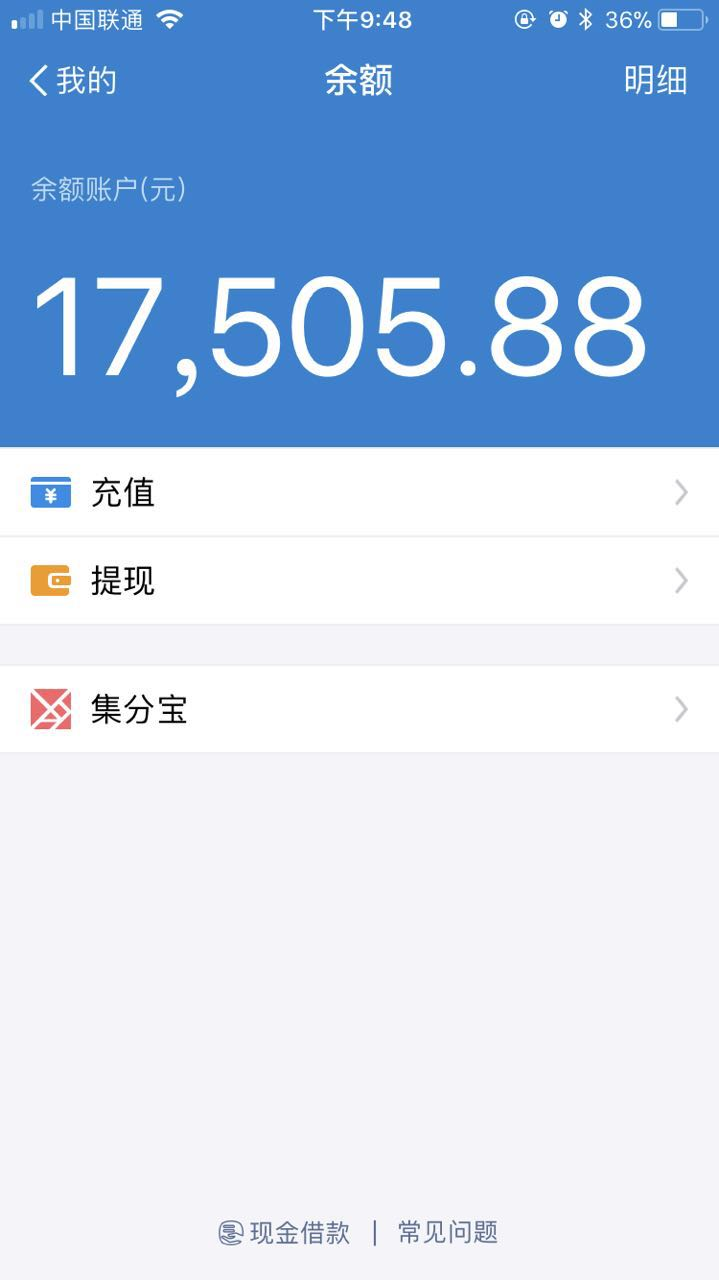
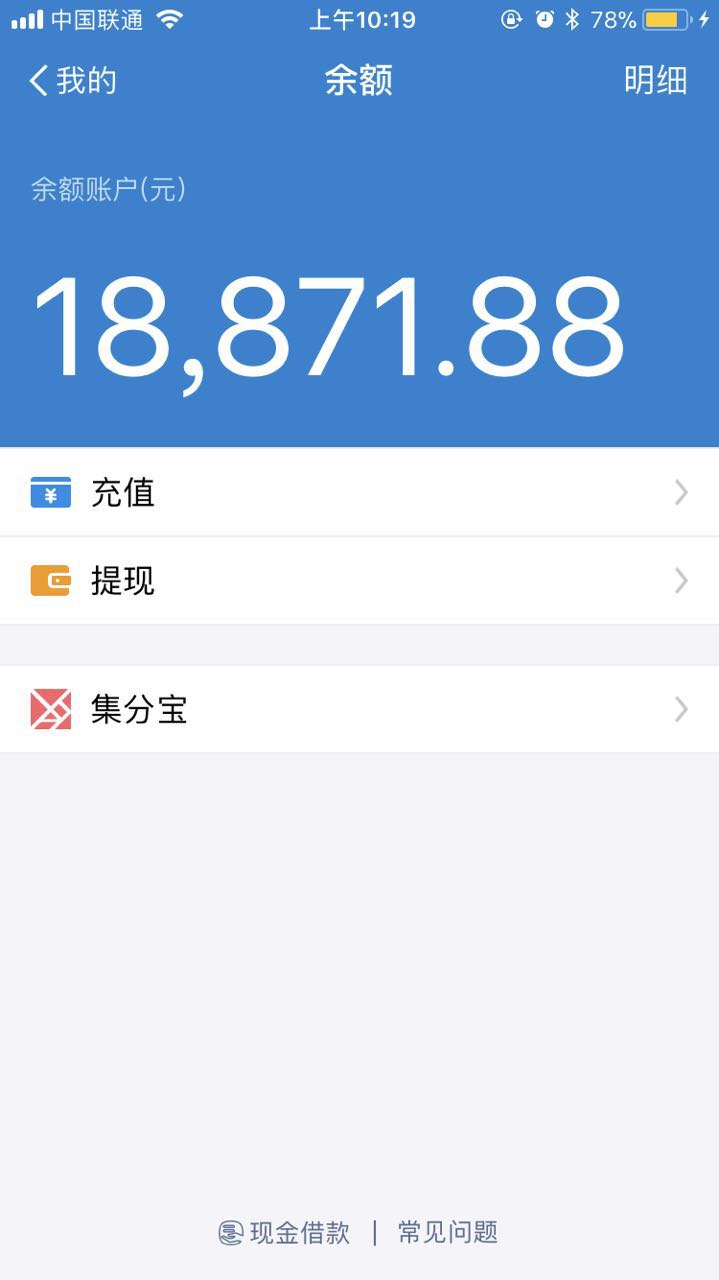
income: Sirormy 255元 20170815 个人赞助 已入账

diff --git a/README.md b/README.md
@@ -1,6 +1,6 @@
 #  NodeParty 开源基金会运作草案 
 
-![](https://img.shields.io/badge/余额-18616.88%20元-green.svg) ![](https://img.shields.io/badge/赞助笔数-27%20笔-green.svg) ![](https://img.shields.io/badge/待入账-2430.00%20元-blue.svg) 
+![](https://img.shields.io/badge/余额-18871.88%20元-green.svg) ![](https://img.shields.io/badge/赞助笔数-28%20笔-green.svg) ![](https://img.shields.io/badge/待入账-2430.00%20元-blue.svg) 
 
 ## 组织介绍
 
@@ -125,6 +125,7 @@ Commit Message 需按照此格式：
 | @cuiyongjian | 100.00 | 2017-08-15 | 个人赞助 | [#31](https://github.com/Hangzhou-Node-Party/JS-OpenSource-Foundation/issues/31) |
 | @whatwewant | 100.00 | 2017-08-15 | 个人赞助 | [#33](https://github.com/Hangzhou-Node-Party/JS-OpenSource-Foundation/issues/33) |
 | @wangerniu | 200.00 | 2017-08-15 | 个人赞助 | [#34](https://github.com/Hangzhou-Node-Party/JS-OpenSource-Foundation/issues/34) |
+| @Sirormy | 255.00 | 2017-08-15 | 个人赞助 | [#35](https://github.com/Hangzhou-Node-Party/JS-OpenSource-Foundation/issues/35) |
 
 感谢以下企业的赞助：
 
@@ -167,8 +168,8 @@ Commit Message 需按照此格式：
 <!-- money start -->
 | 款项 | 金额 |
 |------|------|
-| **总额** | 18616.88 元 |
-| **本月收入** | 18616.88 元 |
+| **总额** | 18871.88 元 |
+| **本月收入** | 18871.88 元 |
 | **待入账** | 2430.00 元 |
 | **本月支出** | 0 元 |
 <!-- money end -->

diff --git a/INCOMING.md b/INCOMING.md
@@ -29,3 +29,4 @@
 | @cuiyongjian | 100.00 | 2017-08-15 | 个人赞助 | [#31](https://github.com/Hangzhou-Node-Party/JS-OpenSource-Foundation/issues/31) |
 | @whatwewant | 100.00 | 2017-08-15 | 个人赞助 | [#33](https://github.com/Hangzhou-Node-Party/JS-OpenSource-Foundation/issues/33) |
 | @wangerniu | 200.00 | 2017-08-15 | 个人赞助 | 祝nodeParty越办越好. |
+| @Sirormy | 255.00 | 2017-08-15 | 个人赞助 | 祝 JS开源基金会越办越好 |
